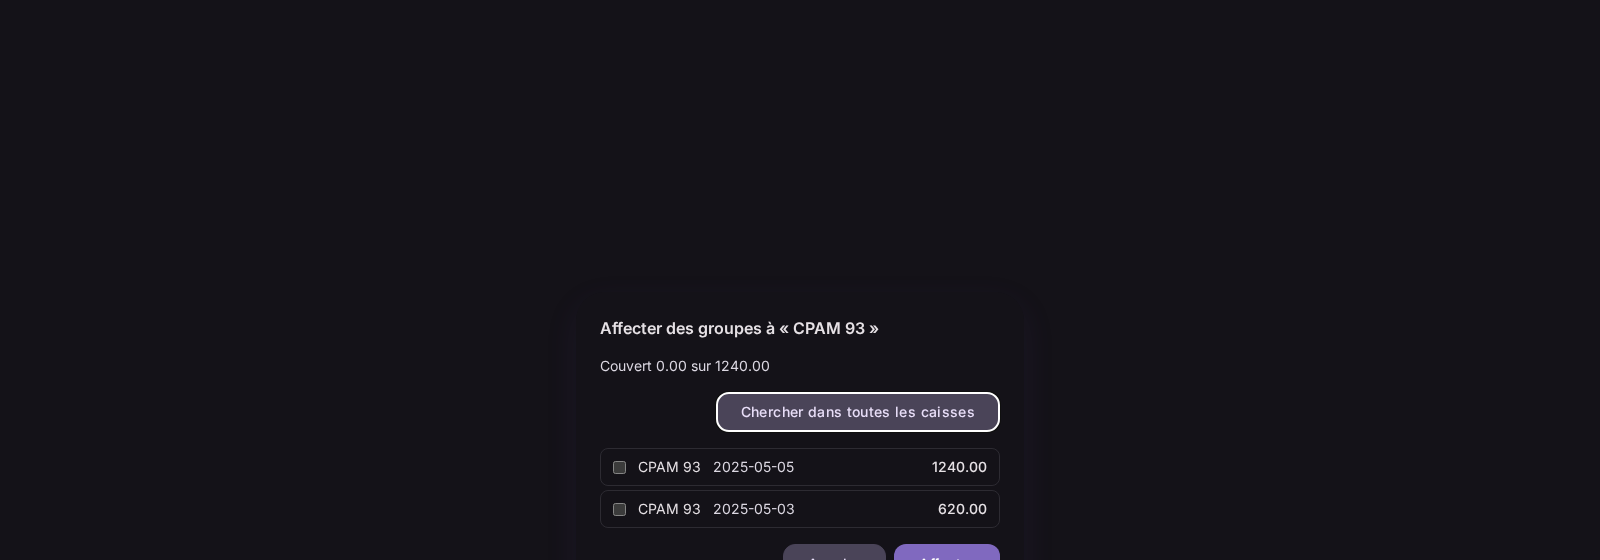
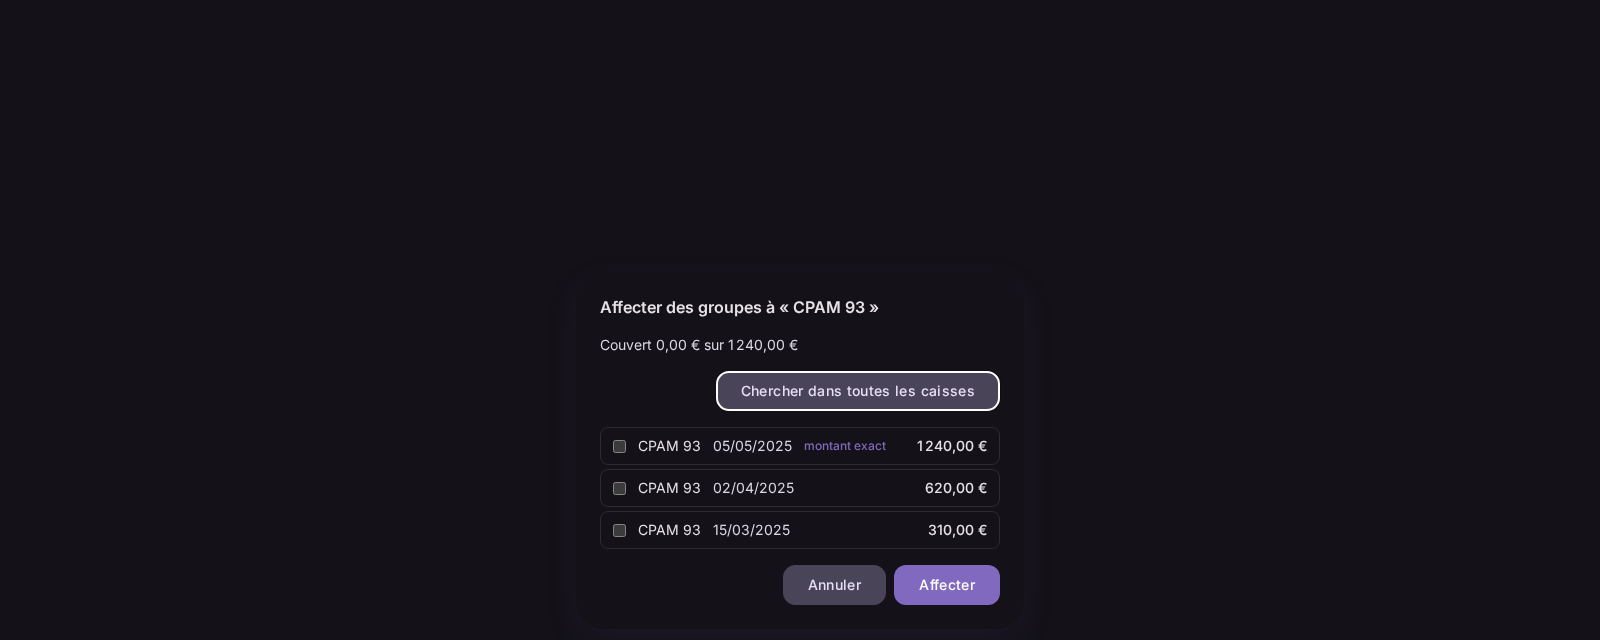
fix(bank): order candidates most recent first, flag exact amounts

Changed region(s): [[0.375, 0.5768, 0.625, 0.7893], [0.375, 0.8196, 0.625, 1.0], [0.375, 0.4554, 0.5625, 0.5464]]

diff --git a/src/features/bank-statement-match/ui/CandidateList.tsx b/src/features/bank-statement-match/ui/CandidateList.tsx
@@ -1,9 +1,9 @@
-import { useMemo, useState } from "react";
+import { useState } from "react";
 import { useTranslation } from "react-i18next";
 import type { BankStatementLine } from "@/bindings";
 import { Button } from "@/ui/components/button";
 import { useFormatters } from "@/ui/format/formatters";
-import { coveredAmount, rankCandidates } from "../shared/candidateSelection";
+import { coveredAmount } from "../shared/candidateSelection";
 
 interface CandidateListProps {
   line: BankStatementLine;
@@ -24,9 +24,9 @@ export function CandidateList({ line, idPrefix, selected, onSelectionChange }: C
   const { formatCurrency, formatDate } = useFormatters();
   const [broadened, setBroadened] = useState(false);
   // BAS-068 — default to the fund-filtered set; broadening swaps in the
-  // fund-agnostic superset (same date tolerance) the backend provides.
-  const source = broadened ? line.broadened_candidates : line.candidate_groups;
-  const ranked = useMemo(() => rankCandidates(source), [source]);
+  // fund-agnostic superset. The wire order (most recent payment first) is
+  // rendered as-is.
+  const ranked = broadened ? line.broadened_candidates : line.candidate_groups;
 
   const toggle = (groupId: string) => {
     onSelectionChange(
@@ -91,6 +91,15 @@ export function CandidateList({ line, idPrefix, selected, onSelectionChange }: C
               <span className="text-sm text-m3-on-surface-variant">
                 {formatDate(candidate.payment_date)}
               </span>
+              {/* BAS-068 — flag the strongest match signal for the picker. */}
+              {candidate.is_exact_amount && (
+                <span
+                  id={`${idPrefix}-exact-${candidate.group_id}`}
+                  className="text-xs font-medium text-m3-primary"
+                >
+                  {t("reconciliation.assign_groups.exact_amount")}
+                </span>
+              )}
               <span className="ml-auto text-sm font-medium text-m3-on-surface">
                 {formatCurrency(candidate.total_amount)}
               </span>

diff --git a/src/features/bank-statement-match/ui/AssignGroupsModal.integration.test.tsx b/src/features/bank-statement-match/ui/AssignGroupsModal.integration.test.tsx
@@ -88,7 +88,7 @@ describe("AssignGroupsModal — BAS-068/090/091/094", () => {
   beforeEach(() => vi.clearAllMocks());
 
   // BAS-068 — candidate groups rendered, exact-amount first
-  it("renders candidate groups with stable ids, exact-match group first (BAS-068)", () => {
+  it("renders candidates in wire order with stable ids and exact-amount flag (BAS-068)", () => {
     const line = makeNeedsGroupLine();
 
     render(<AssignGroupsModal line={line} isOpen={true} onSubmit={vi.fn()} onCancel={vi.fn()} />);
@@ -102,9 +102,15 @@ describe("AssignGroupsModal — BAS-068/090/091/094", () => {
     // Each row identifies its fund by name (BAS-068)
     expect(candidateRow1?.textContent).toContain("CPAM Paris");
 
-    // Exact-amount candidate appears before the partial candidate in DOM order
+    // The wire order (backend: most recent payment first) renders as-is —
+    // no client-side re-sort.
     const allRows = document.querySelectorAll("[id^='assign-groups-candidate-']");
     expect(allRows[0]?.id).toBe("assign-groups-candidate-group-1");
+    expect(allRows[1]?.id).toBe("assign-groups-candidate-group-2");
+
+    // The exact-amount candidate carries the flag; the partial one does not.
+    expect(document.getElementById("assign-groups-exact-group-1")).not.toBeNull();
+    expect(document.getElementById("assign-groups-exact-group-2")).toBeNull();
   });
 
   // BAS-090 — selecting a group and submitting produces AssignGroups correction

diff --git a/src/features/bank-statement-match/shared/candidateSelection.ts b/src/features/bank-statement-match/shared/candidateSelection.ts
@@ -1,10 +1,5 @@
 import type { BankStatementCandidate, BankStatementLine } from "@/bindings";
 
-/** Exact-amount candidates first, preserving relative order otherwise (BAS-068). */
-export function rankCandidates(candidates: BankStatementCandidate[]): BankStatementCandidate[] {
-  return candidates.toSorted((a, b) => Number(b.is_exact_amount) - Number(a.is_exact_amount));
-}
-
 /** Union of the fund-filtered and broadened candidate views, deduplicated by group id. */
 function allCandidates(line: BankStatementLine): BankStatementCandidate[] {
   const seen = new Set<string>();

diff --git a/src-tauri/src/use_cases/bank_statement_reconciliation/reconciliation.rs b/src-tauri/src/use_cases/bank_statement_reconciliation/reconciliation.rs
@@ -486,7 +486,7 @@ fn finalize_line(
     // BAS-068 — broadened set: same date tolerance + eligibility, but across all
     // funds (no fund filter). Superset shown when the user broadens the search.
     let broadened_candidates =
-        broadened_candidates(wl, groups, funds, &consumed_by_others, line_amount);
+        broadened_candidates(groups, funds, &consumed_by_others, line_amount);
 
     BankStatementLine {
         line_id: wl.line_id.clone(),
@@ -503,10 +503,10 @@ fn finalize_line(
     }
 }
 
-/// BAS-068 — rank eligible candidate groups for a line: same fund, not
+/// BAS-068 — eligible candidate groups for a line: same fund, not
 /// locked/consumed, amount ≤ `amount_ceiling` (the full line amount — the
 /// recomposition basis, see `finalize_line`); NOT date-bounded (BAS-051
-/// manual path). Ordered exact-amount first, then by date proximity.
+/// manual path). Ordered most recent payment first.
 fn candidate_groups(
     wl: &WorkingLine,
     groups: &[FundPaymentGroup],
@@ -517,46 +517,40 @@ fn candidate_groups(
     let Some(fund_id) = wl.fund_id.as_deref() else {
         return Vec::new();
     };
-    rank_candidates(wl, groups, funds, consumed, amount_ceiling, |g| {
+    rank_candidates(groups, funds, consumed, amount_ceiling, |g| {
         g.fund_id == fund_id
     })
 }
 
-/// BAS-068 — the broadened set: identical eligibility and ranking to
+/// BAS-068 — the broadened set: identical eligibility and ordering to
 /// `candidate_groups` but WITHOUT the fund filter (all funds), shown when the
 /// user broadens the search beyond the line's fund.
 fn broadened_candidates(
-    wl: &WorkingLine,
     groups: &[FundPaymentGroup],
     funds: &[Fund],
     consumed: &HashSet<String>,
     amount_ceiling: i64,
 ) -> Vec<BankStatementCandidate> {
-    rank_candidates(wl, groups, funds, consumed, amount_ceiling, |_| true)
+    rank_candidates(groups, funds, consumed, amount_ceiling, |_| true)
 }
 
-/// Shared eligibility filter + ranking for candidate proposals (BAS-068). A
-/// group is eligible when it is not locked, not already consumed, within the
-/// date tolerance window, amount ≤ `amount_ceiling` (BAS-090), and passes the
-/// caller-supplied `fund_filter`. Ordered exact-amount first, then nearest date.
+/// Shared eligibility filter + ordering for candidate proposals (BAS-068). A
+/// group is eligible when it is not locked, not already consumed, amount ≤
+/// `amount_ceiling` (BAS-090), and passes the caller-supplied `fund_filter`.
+/// Ordered most recent payment first (2026-07-30 field report).
 fn rank_candidates(
-    wl: &WorkingLine,
     groups: &[FundPaymentGroup],
     funds: &[Fund],
     consumed: &HashSet<String>,
     amount_ceiling: i64,
     fund_filter: impl Fn(&FundPaymentGroup) -> bool,
 ) -> Vec<BankStatementCandidate> {
-    let Some(line_date) = wl.line_date else {
-        return Vec::new();
-    };
-
     let fund_names: HashMap<&str, &str> = funds
         .iter()
         .map(|f| (f.id.as_str(), f.name.as_str()))
         .collect();
 
-    let mut candidates: Vec<(i64, BankStatementCandidate)> = groups
+    let mut candidates: Vec<BankStatementCandidate> = groups
         .iter()
         .filter(|g| {
             !g.is_locked
@@ -564,37 +558,25 @@ fn rank_candidates(
                 && fund_filter(g)
                 && g.total_amount <= amount_ceiling
         })
-        .map(|g| {
-            // BAS-051/068 — the manual path is not date-bounded; the offset's
-            // ABSOLUTE value only drives the nearest-date ranking below.
-            let offset = (line_date - g.payment_date).num_days().abs();
-            (
-                offset,
-                BankStatementCandidate {
-                    group_id: g.id.clone(),
-                    fund_id: g.fund_id.clone(),
-                    // `repos.funds` is the complete fund list, so every group's
-                    // fund_id resolves; "" would mean an orphaned reference.
-                    fund_name: fund_names
-                        .get(g.fund_id.as_str())
-                        .map(|n| (*n).to_string())
-                        .unwrap_or_default(),
-                    payment_date: g.payment_date.format("%Y-%m-%d").to_string(),
-                    total_amount: g.total_amount,
-                    is_exact_amount: g.total_amount == amount_ceiling,
-                },
-            )
+        .map(|g| BankStatementCandidate {
+            group_id: g.id.clone(),
+            fund_id: g.fund_id.clone(),
+            // `repos.funds` is the complete fund list, so every group's
+            // fund_id resolves; "" would mean an orphaned reference.
+            fund_name: fund_names
+                .get(g.fund_id.as_str())
+                .map(|n| (*n).to_string())
+                .unwrap_or_default(),
+            payment_date: g.payment_date.format("%Y-%m-%d").to_string(),
+            total_amount: g.total_amount,
+            is_exact_amount: g.total_amount == amount_ceiling,
         })
         .collect();
 
-    // Exact-amount first, then nearest date (smallest offset).
-    candidates.sort_by(|(off_a, ca), (off_b, cb)| {
-        cb.is_exact_amount
-            .cmp(&ca.is_exact_amount)
-            .then(off_a.cmp(off_b))
-    });
+    // BAS-068 — most recent payment first; ISO dates compare chronologically.
+    candidates.sort_by(|a, b| b.payment_date.cmp(&a.payment_date));
 
-    candidates.into_iter().map(|(_, c)| c).collect()
+    candidates
 }
 
 /// BAS-032 — heuristic fund suggestion for an unmapped label, in priority order:
@@ -1048,8 +1030,10 @@ mod tests {
         assert!(ids.contains(&"grp-60"), "own assigned group is a candidate");
         assert!(
             ids.contains(&"grp-40"),
-            "other in-window group qualifies against the full line amount"
+            "other group qualifies against the full line amount"
         );
+        // BAS-068 — most recent payment first (grp-40 is 01-13, grp-60 is 01-12).
+        assert_eq!(ids, vec!["grp-40", "grp-60"]);
     }
 
     // BAS-068 — broadened_candidates surfaces an eligible group from a DIFFERENT

diff --git a/docs/spec/bank-statement-auto-match.md b/docs/spec/bank-statement-auto-match.md
@@ -113,7 +113,7 @@ A line counts as **resolved** when its status is **matched** or **rejected**. `n
 
 **BAS-067 — Group consumption (backend)**: Assigning a group to a line removes that group from every other line's candidate proposals (a group settles at most one line; BAS-054). Reverting the assignment (BAS-065) restores the group to the candidate pool.
 
-**BAS-068 — Candidate proposals and broadened search (frontend)**: For a line needing a group, the draft offers candidate groups ranked by match quality (exact amount first, then date proximity — smallest **absolute** date offset first), filtered to the line's fund but **not date-bounded** (BAS-051 manual path). A "broaden" affordance shows all candidate groups beyond the fund filter; a broadened candidate is selectable and assignable (manual cross-fund override, BAS-090). For a line that already has assigned groups, the candidate lists include those groups — the correction hosts pre-select them — and the amount filter applies against the **full line amount**: an assign-group correction recomposes (replaces) the assignment (BAS-062), with the overflow guard (BAS-094) bounding the total. _(Replaces former BAS-062.)_
+**BAS-068 — Candidate proposals and broadened search (frontend)**: For a line needing a group, the draft offers candidate groups ordered **most recent payment date first**, filtered to the line's fund but **not date-bounded** (BAS-051 manual path); an exact-amount candidate is visually flagged. _(2026-07-30 field report — the former exact-first/nearest-date ranking was invisible in the UI and read as unordered.)_ A "broaden" affordance shows all candidate groups beyond the fund filter; a broadened candidate is selectable and assignable (manual cross-fund override, BAS-090). For a line that already has assigned groups, the candidate lists include those groups — the correction hosts pre-select them — and the amount filter applies against the **full line amount**: an assign-group correction recomposes (replaces) the assignment (BAS-062), with the overflow guard (BAS-094) bounding the total. _(Replaces former BAS-062.)_
 
 **BAS-069 — Summary and filter (frontend)**: The list shows a running count of resolved vs needs-correction lines and offers a filter to hide resolved lines. Filtering never changes the underlying document order (BAS-060).
 

diff --git a/docs/techdebt.md b/docs/techdebt.md
@@ -8,13 +8,13 @@ Observations of code smells, inconsistencies, and brittle patterns. Not commitme
 
 <!-- entries removed when resolved; this file is otherwise the running observation log -->
 
-## 2026-07-30 — Prune findings: unused codec constant + redundant FE candidate re-sort
+## 2026-07-30 — Prune finding: unused codec constant
 
-**Found by:** /prune (post-v0.20.1 lean check, report `tmp/prune-2026-07-30-01.md`; user routed both to techdebt).
+**Found by:** /prune (post-v0.20.1 lean check, report `tmp/prune-2026-07-30-01.md`; user routed to techdebt). _(The second prune finding — the redundant FE candidate re-sort — was resolved by the most-recent-first ordering change on branch `next`, 2026-07-30.)_
 
-**Where:** (1) `src-tauri/src/use_cases/bank_statement_reconciliation/bank_pdf_codec.rs:24` — `IBAN_HEADER_MARKER` has zero consumers; `extract_iban` (`parser.rs:38`) builds its regex inline while every sibling codec constant IS consumed. (2) `src/features/bank-statement-match/shared/candidateSelection.ts:5` — `rankCandidates` stable-re-sorts by `is_exact_amount`, a no-op on backend data already ordered per BAS-068 (exact-first, nearest-date); consumed via `useMemo` in `CandidateList.tsx`.
+**Where:** `src-tauri/src/use_cases/bank_statement_reconciliation/bank_pdf_codec.rs:24` — `IBAN_HEADER_MARKER` has zero consumers; `extract_iban` (`parser.rs:38`) builds its regex inline while every sibling codec constant IS consumed.
 
-**Observation:** both are risk-free, covered/compile-checked, ≤15 LOC combined. Resolution direction: wire `extract_iban` to the constant (codec symmetry) rather than deleting it, and drop the FE re-sort + `useMemo` (trust the wire contract). Resolution commit type: `refactor:`. Fold into the next task touching either file, or a micro-PR when convenient.
+**Observation:** risk-free, compile-checked, ≤5 LOC. Resolution direction: wire `extract_iban` to the constant (codec symmetry) rather than deleting it. Resolution commit type: `refactor:`. Fold into the next task touching the parser/codec.
 
 ---
 
